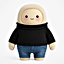
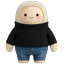
Bandeja: icono con fondo transparente (sin cuadro blanco) + distintivo de sync grande (28 px) que sobresale

Changed region(s): [[0.0938, 0.0, 0.9062, 1.0], [0.7188, 0.5625, 0.75, 0.5938]]

diff --git a/growi-bridge.py b/growi-bridge.py
@@ -1163,20 +1163,29 @@ _tray_state = ["idle"]
 
 def _tray_image(kind):
     """Genera el icono de la bandeja con un distintivo (como OneDrive):
-    'idle' = solo la foto; 'sync'/'sync2' = punto verde que pulsa mientras
-    hay sincronizacion (transferencia en los ultimos 10 s); 'error' = punto
-    rojo (el puente esta caido)."""
+    'idle' = solo el personaje, con fondo transparente (sin cuadro
+    blanco ni oscuro alrededor); 'sync'/'sync2' = distintivo verde
+    GRANDE que pulsa mientras hay sincronizacion (transferencia en los
+    ultimos 10 s) y sobresale de la esquina inferior derecha;
+    'error' = distintivo rojo (el puente esta caido)."""
     try:
         from PIL import ImageDraw
         base = Image.open(TRAY_ICON if TRAY_ICON.is_file() else PHOTO).convert("RGBA")
     except Exception:
         return None
+    # El personaje va a 56x56 centrado (margen de 4 px) para que el
+    # distintivo tenga donde sobresalir sin taparlo entero. El tamano
+    # es el mismo con y sin distintivo, asi el icono no "salta".
+    img = Image.new("RGBA", (64, 64), (0, 0, 0, 0))
+    small = base.resize((56, 56), Image.LANCZOS)
+    img.paste(small, (4, 4), small)
     if kind == "idle":
-        return base
-    img = base.copy()
+        return img
     d = ImageDraw.Draw(img)
     color = {"sync": "#34C759", "sync2": "#8BE0A4", "error": "#FF3B30"}[kind]
-    d.ellipse([42, 42, 62, 62], fill=color, outline="white", width=2)
+    # Distintivo grande (28 px) en la esquina inferior derecha,
+    # centrado en (49, 49): se sale del personaje y llega al borde.
+    d.ellipse([36, 36, 63, 63], fill=color, outline="white", width=3)
     return img
 
 
